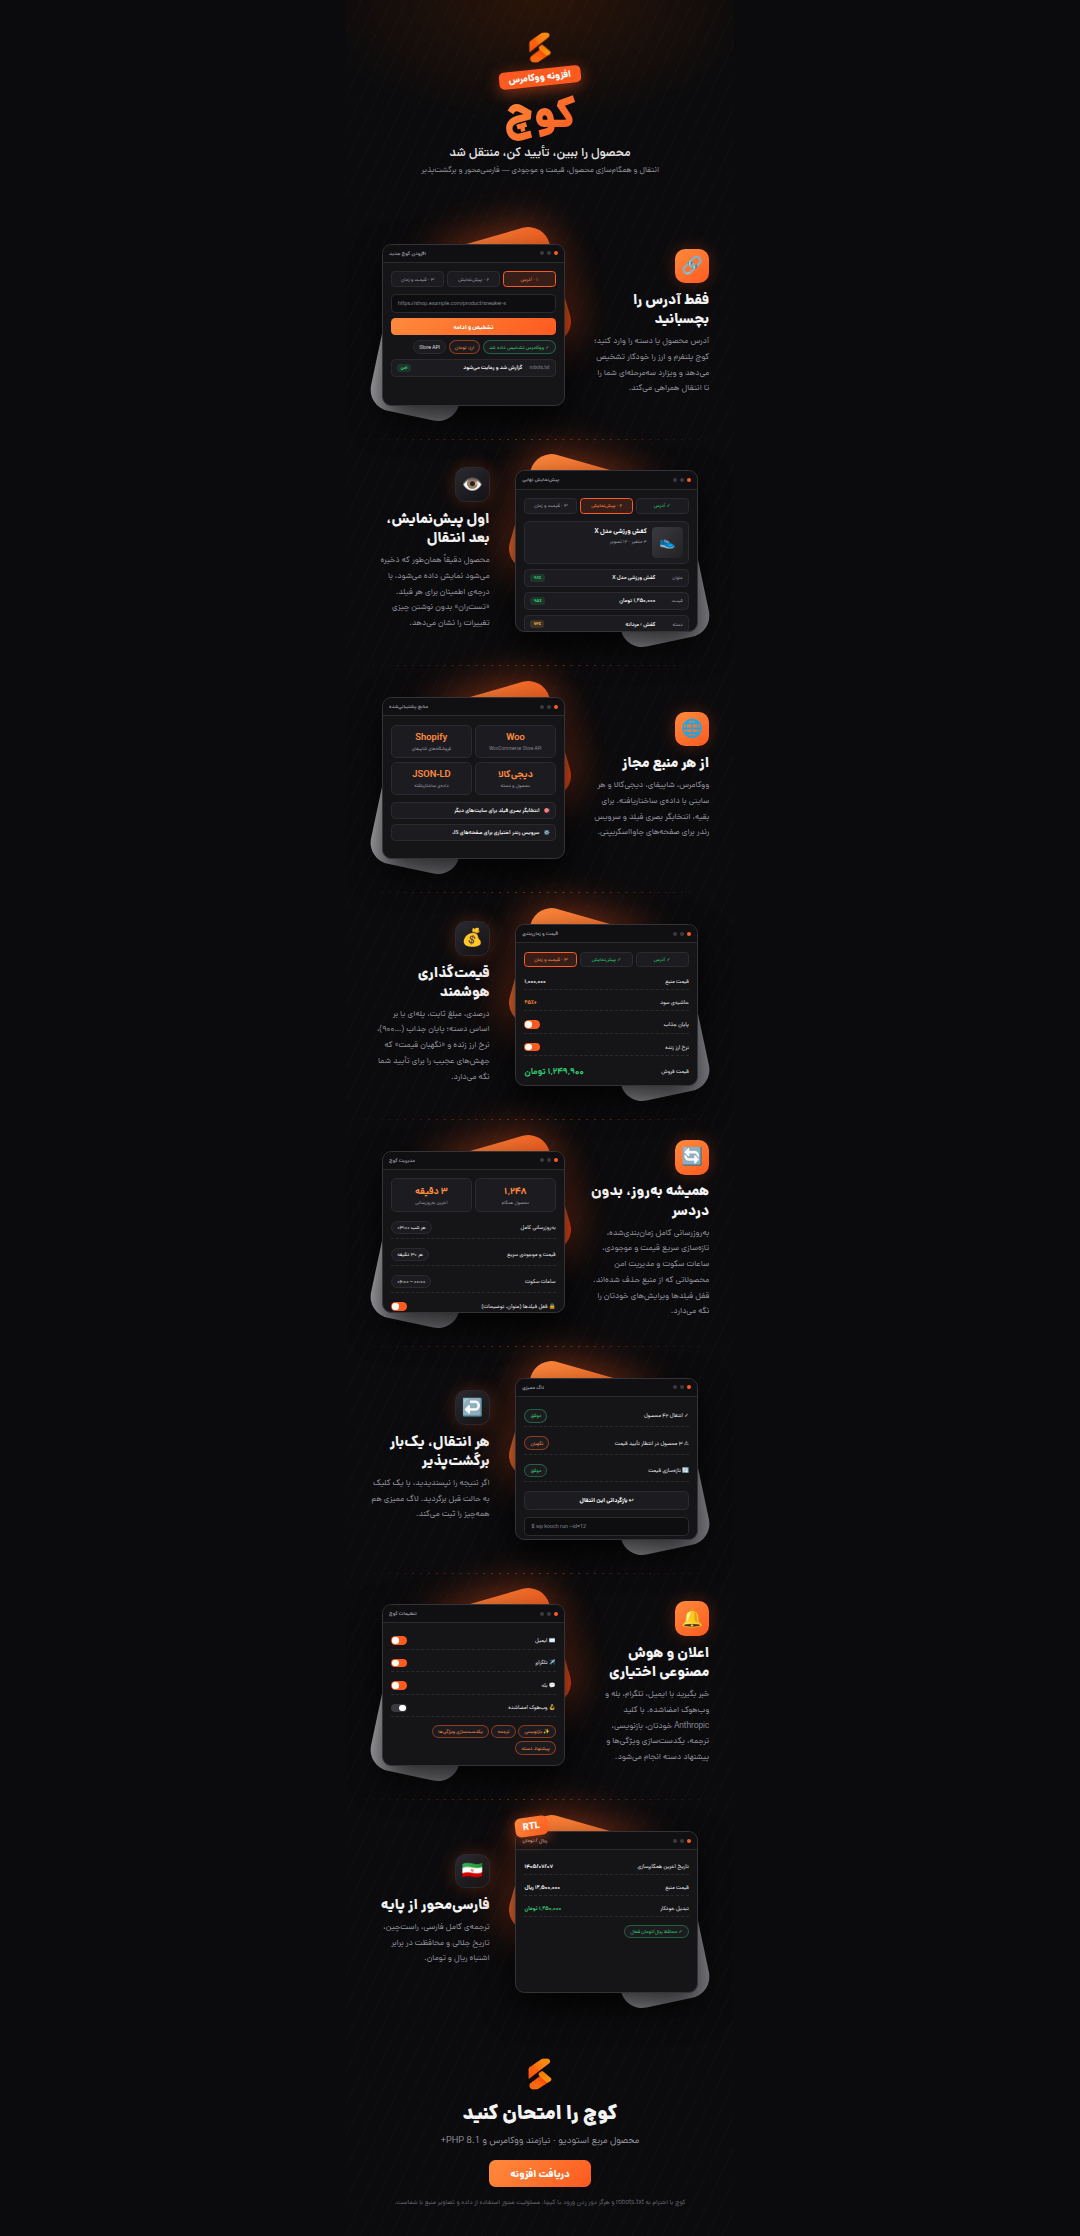
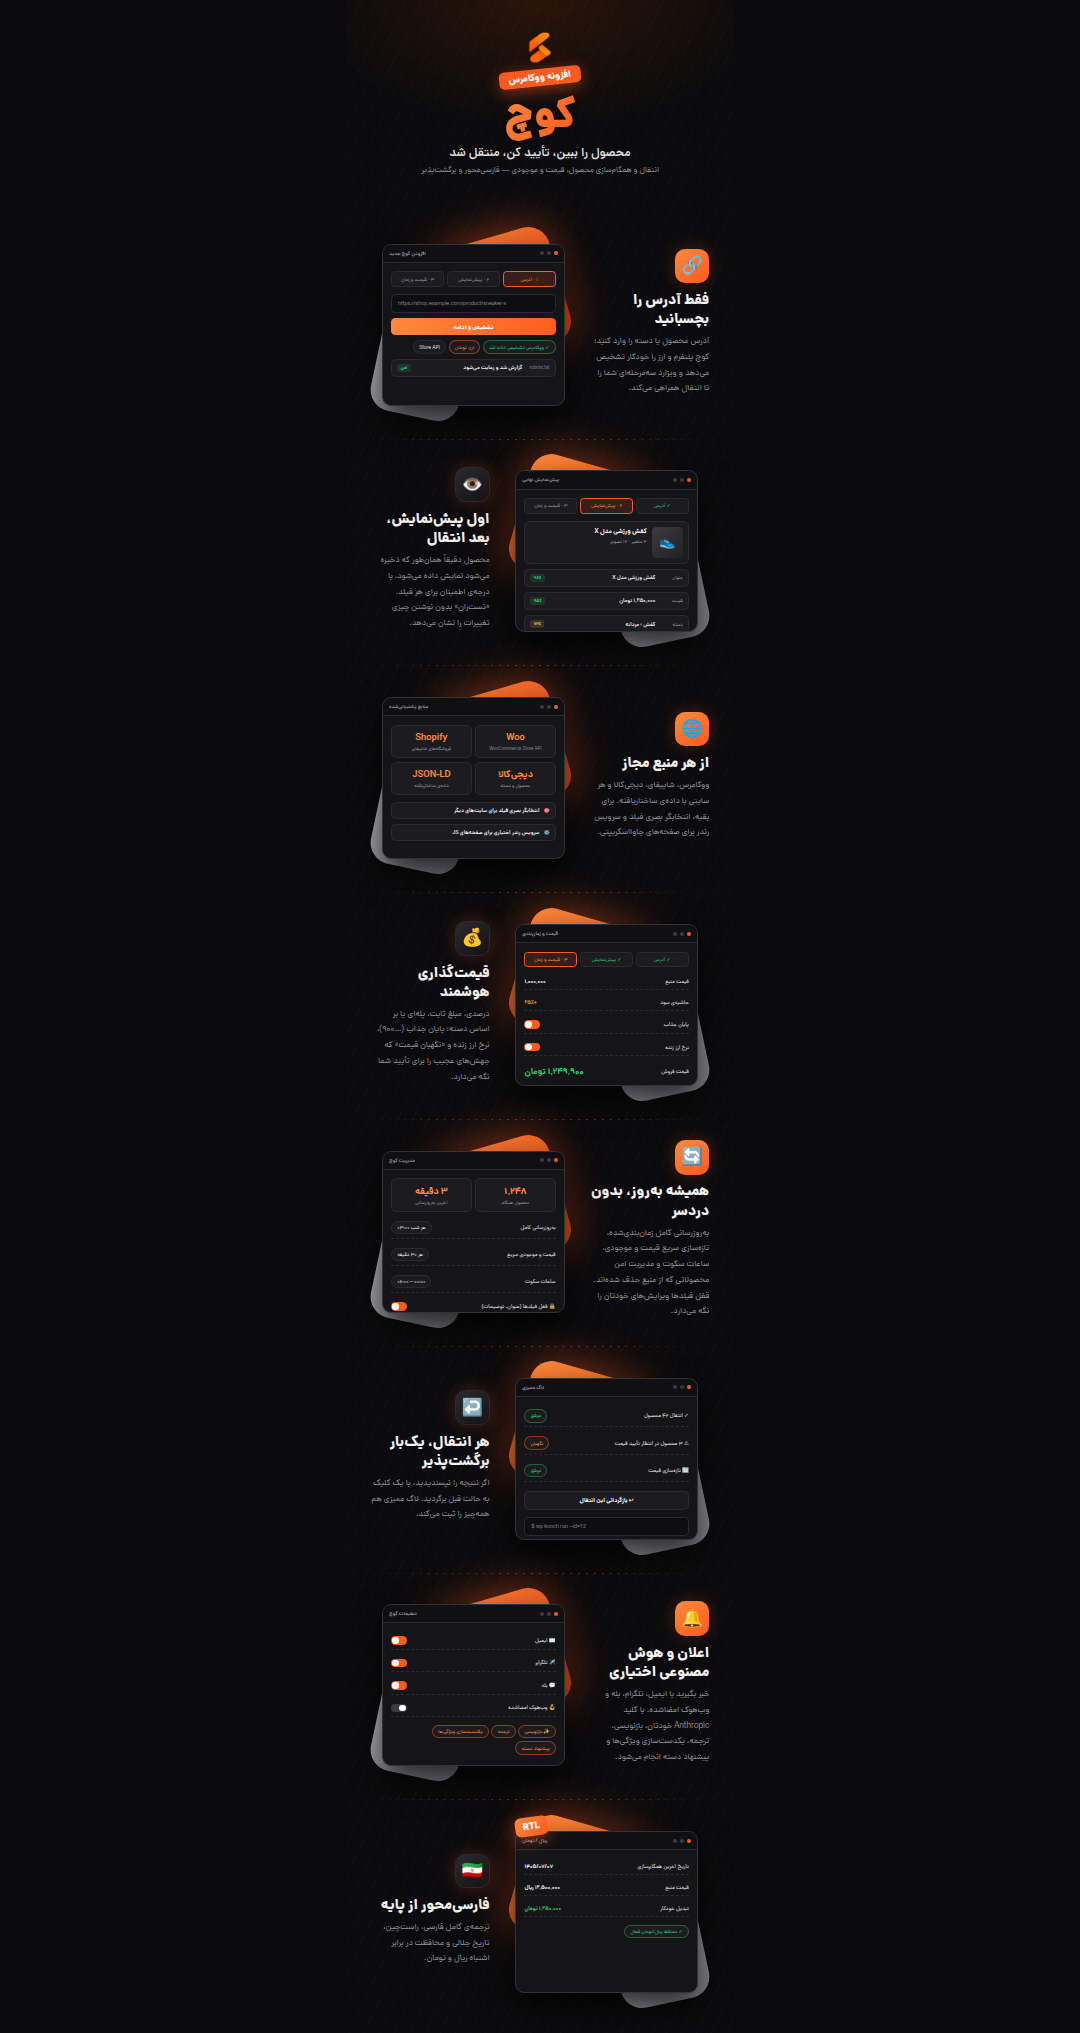
Remove footer CTA from Kooch showcase
Claude-Session: https://claude.ai/code/session_01HjGiyHhZHcoV6ExRpRRqKD

Changed region(s): [[0.3361, 0.0, 0.6722, 0.9916]]

diff --git a/kooch-showcase/index.html b/kooch-showcase/index.html
@@ -285,13 +285,6 @@ body{background:var(--bg);color:var(--tx);font-family:Dana,Tahoma,sans-serif;ove
   </div>
 </section>
 
-<footer class="cta">
-  <img src="kooch-icon.png" alt="">
-  <h3>کوچ را امتحان کنید</h3>
-  <p>محصول مربع استودیو · نیازمند ووکامرس و PHP 8.1+</p>
-  <div class="btn">دریافت افزونه</div>
-  <div class="note">کوچ با احترام به robots.txt و هرگز دور زدن ورود یا کپچا. مسئولیت مجوز استفاده از داده و تصاویر منبع با شماست.</div>
-</footer>
 
 </div>
 </body>
